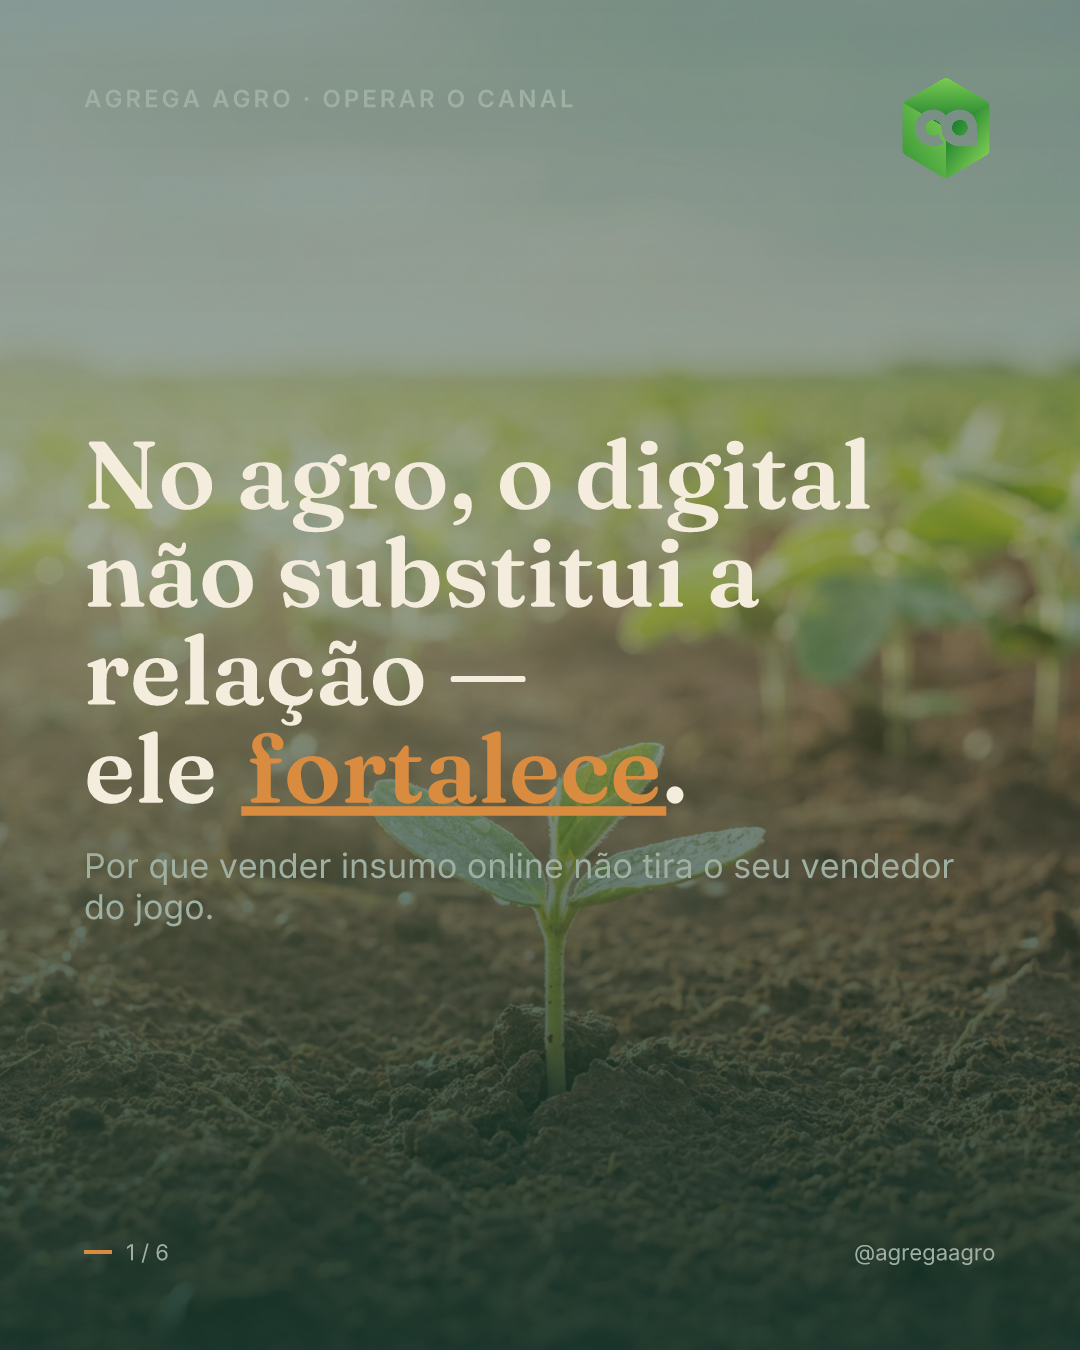
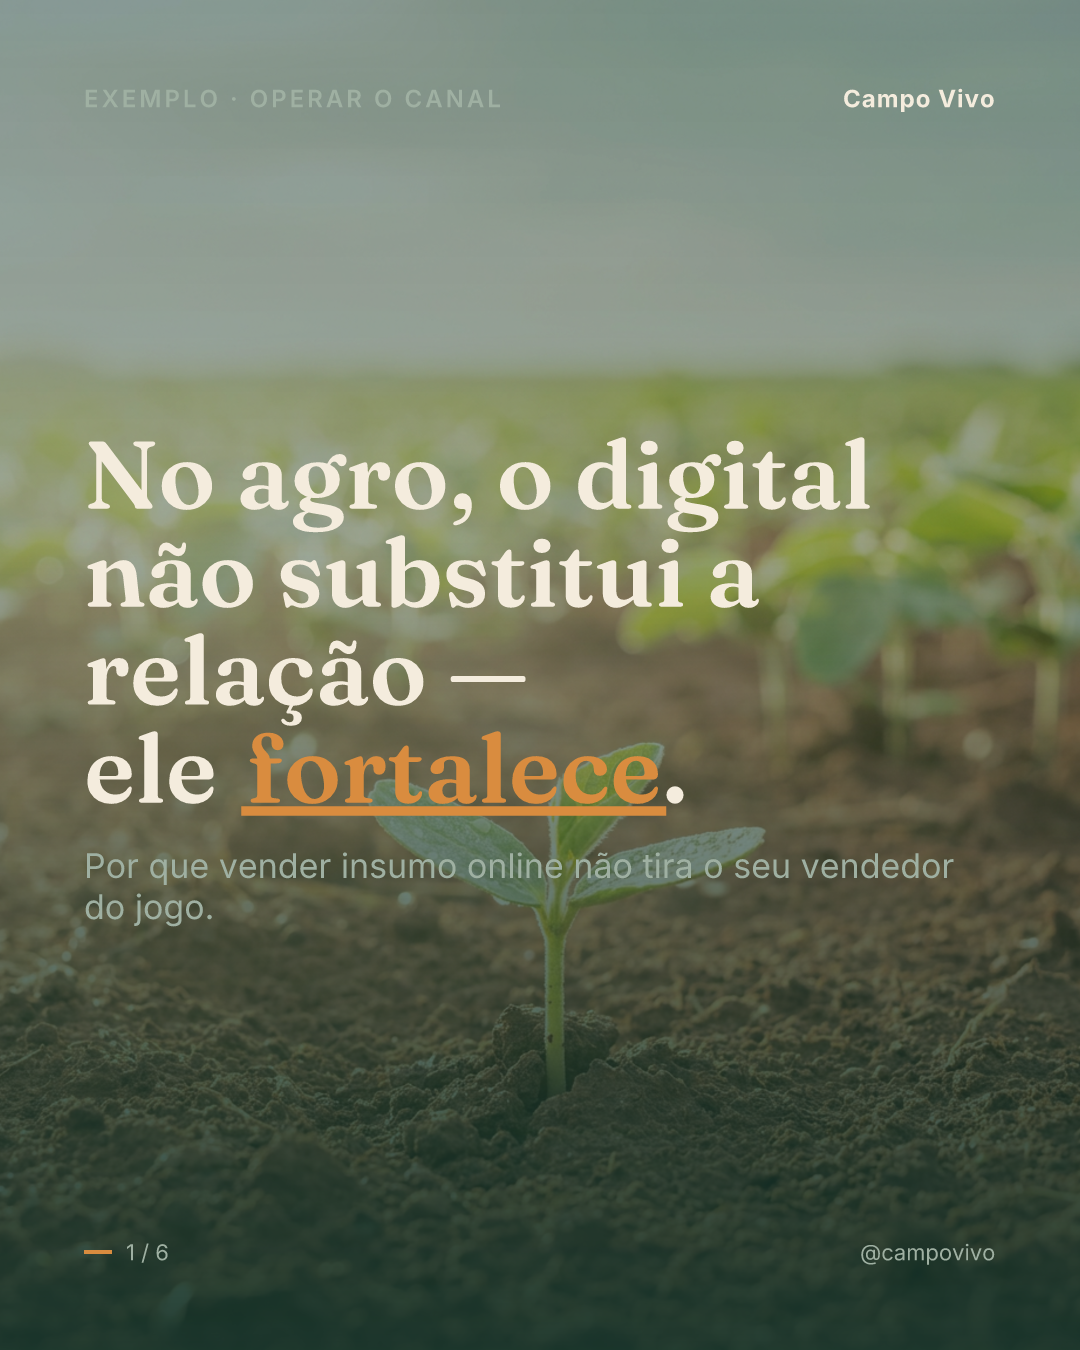
landing: exemplos com marca fictícia (de-brand)

Changed region(s): [[0.1222, 0.0622, 0.5194, 0.0933], [0.7944, 0.0622, 0.9167, 0.1556], [0.7944, 0.9022, 0.9167, 0.9333]]

diff --git a/index.html b/index.html
@@ -335,7 +335,7 @@
 <section class="gallery" id="exemplos"><div class="wrap">
   <div class="kicker eyebrow">Saída real do motor</div>
   <h2>Carrosséis gerados de ponta a ponta — não mockups.</h2>
-  <p class="sub">Caso real: <b>Agrega Agro</b> (full-commerce do agronegócio). A partir do site, do ICP e dos concorrentes — cada slide com uma ideia e uma anatomia própria.</p>
+  <p class="sub">Caso real: <b>Campo Vivo</b> (full-commerce do agronegócio). A partir do site, do ICP e dos concorrentes — cada slide com uma ideia e uma anatomia própria.</p>
   <div class="grid-imgs">
     <img src="assets/sample-cover.png" alt="Capa" />
     <img src="assets/sample-mirror.png" alt="Problema" />
